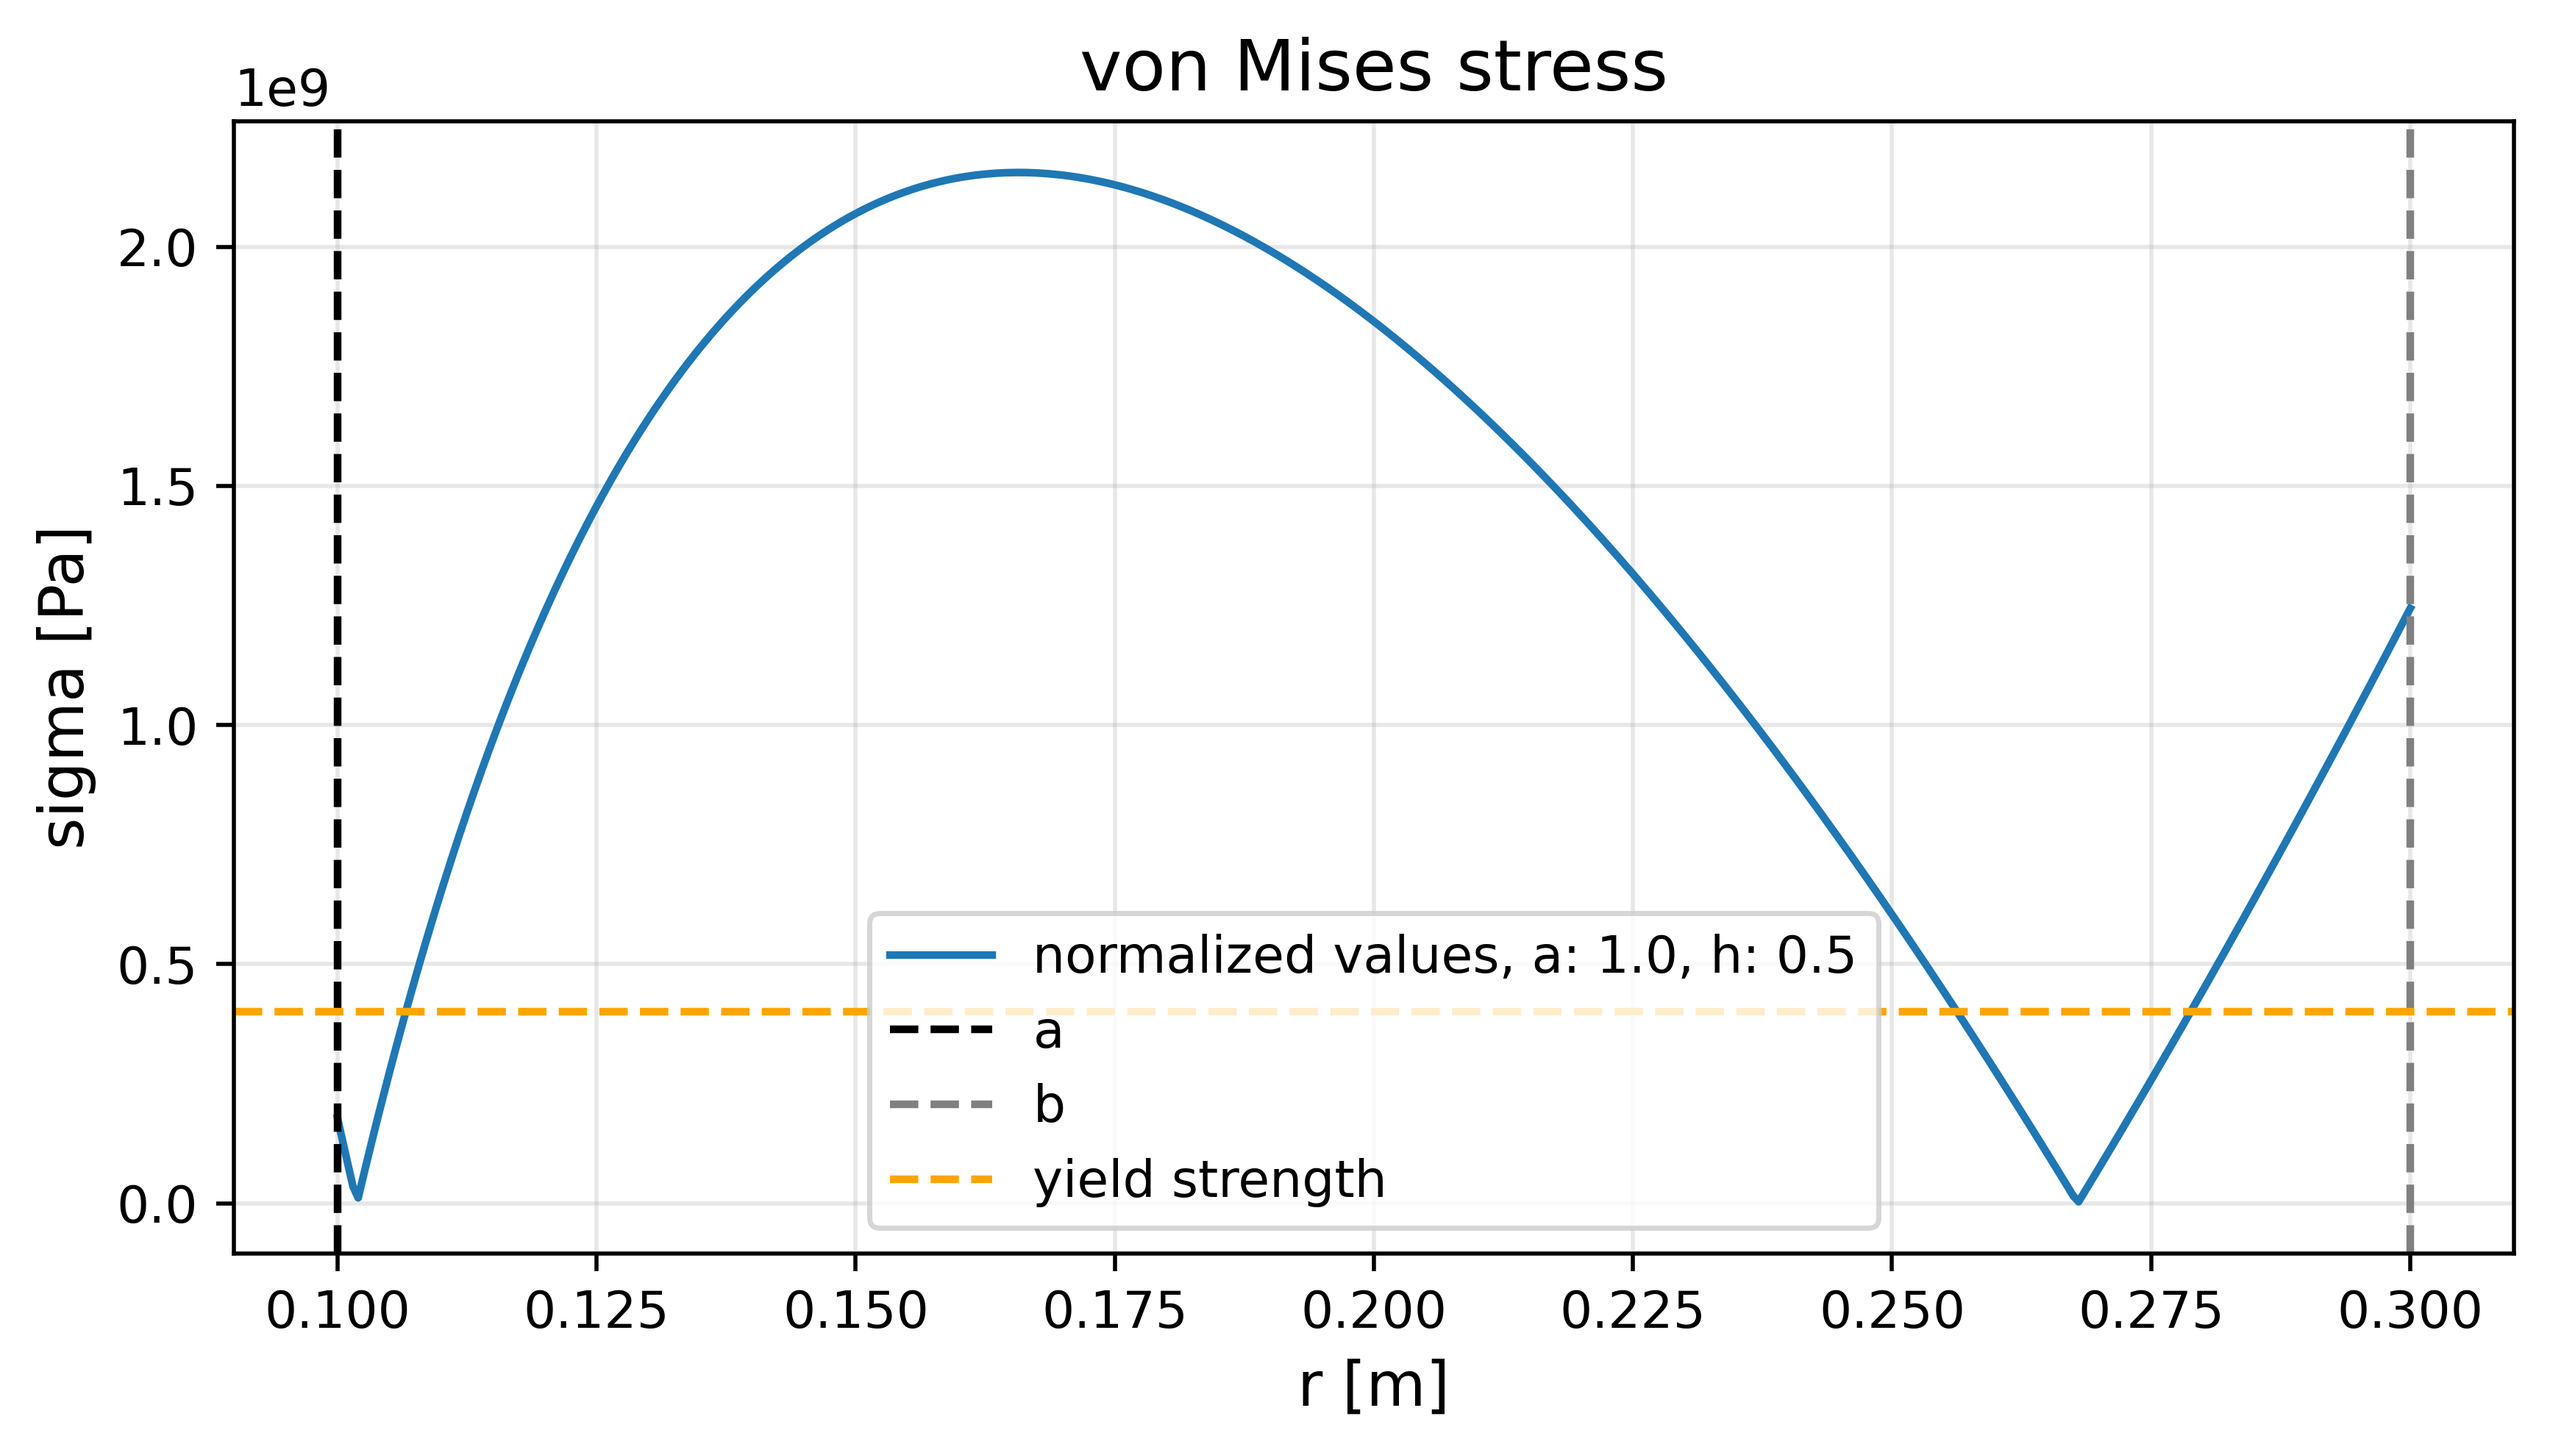
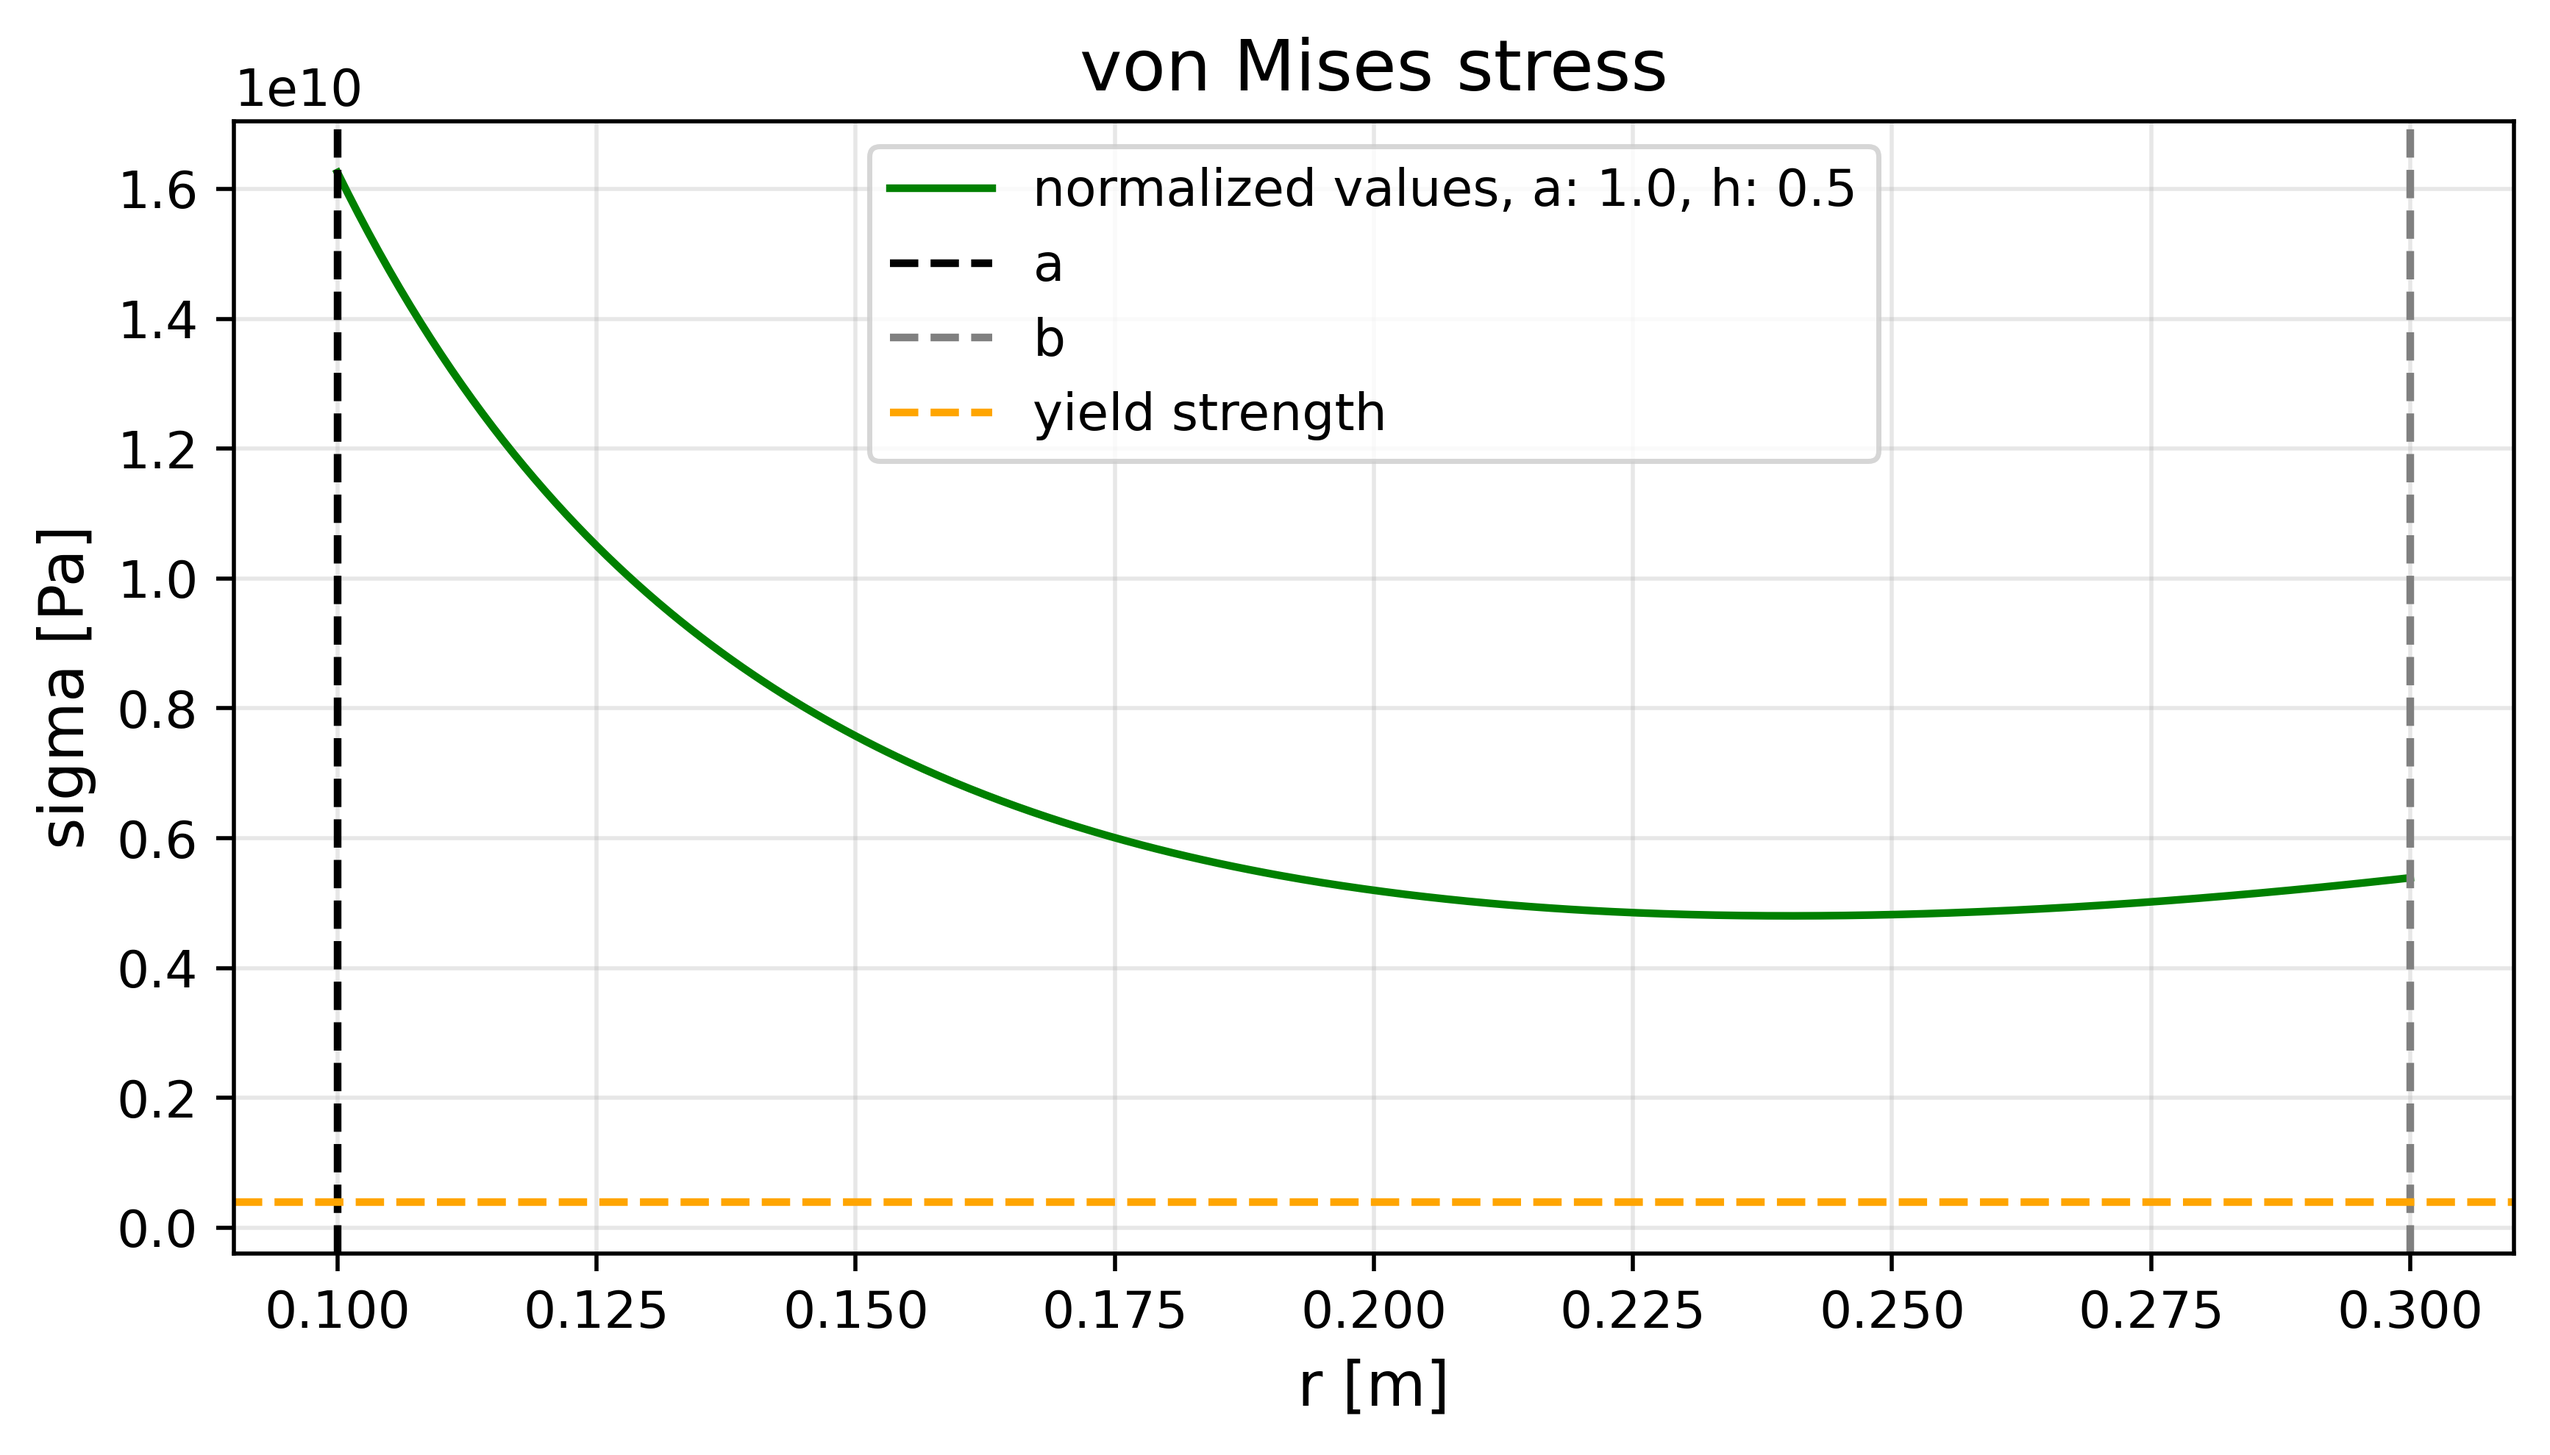
.

diff --git a/TME235/A3 & A4/A3&A4.py b/TME235/A3 & A4/A3&A4.py
@@ -128,8 +128,8 @@ M_phi = D * (-w.diff(r, 1) / r - nu * w.diff(r, 2))
 # shear force field
 V = M_r.diff(r, 1) +  1 / r * (M_r - M_phi)
 
-sigma_rr = E / (1 - nu**2) * (-z * w.diff(r, 2) - nu * z * w.diff(r, 1) / r)
-sigma_phiphi = E / (1 - nu**2) * (-nu * z * w.diff(r, 2) - z * w.diff(r, 1))
+sigma_rr = E / (1 - nu**2) * ((-z * w.diff(r, 2)) + nu * (-z * w.diff(r, 1) / r))
+sigma_phiphi = E / (1 - nu**2) * (nu * (- z * w.diff(r, 2)) + (- z * w.diff(r, 1) / r))
 
 boundary_conditions = [
     M_r.subs(r, a),  # inner boundary radial bending moment free
@@ -187,7 +187,7 @@ def numerical_analysis(a, h):
     fig('radial deflection a' + str(int(a_radius/a)) + 'h' + str(int(h_num/h)))
 
     plt.figure()
-    plt.plot(r_vals, sigma_rr_vals, label=fr'normalized values, a: {a/a_radius}, h: {h/h_num}')
+    plt.plot(r_vals, sigma_rr_vals, color='red', label=fr'normalized values, a: {a/a_radius}, h: {h/h_num}')
     plt.axvline(a, color='black', linestyle='--', label='a')
     plt.axvline(b_radius, color='grey', linestyle='--', label='b')
     plt.axhline(sigma_y_num, color='orange', linestyle='--', label='yield strength')
@@ -197,7 +197,7 @@ def numerical_analysis(a, h):
     fig('radial stress a' + str(int(a_radius/a)) + 'h' + str(int(h_num/h)))
     
     plt.figure()
-    plt.plot(r_vals, sigma_vm_vals, label=fr'normalized values, a: {a/a_radius}, h: {h/h_num}')
+    plt.plot(r_vals, sigma_vm_vals, color='green', label=fr'normalized values, a: {a/a_radius}, h: {h/h_num}')
     plt.axvline(a, color='black', linestyle='--', label='a')
     plt.axvline(b_radius, color='grey', linestyle='--', label='b')
     plt.axhline(sigma_y_num, color='orange', linestyle='--', label='yield strength')
